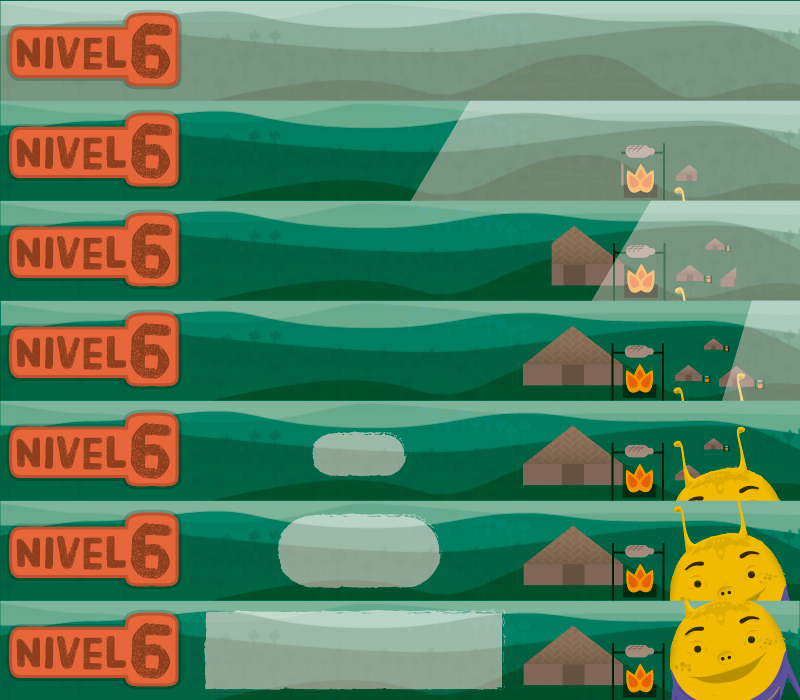
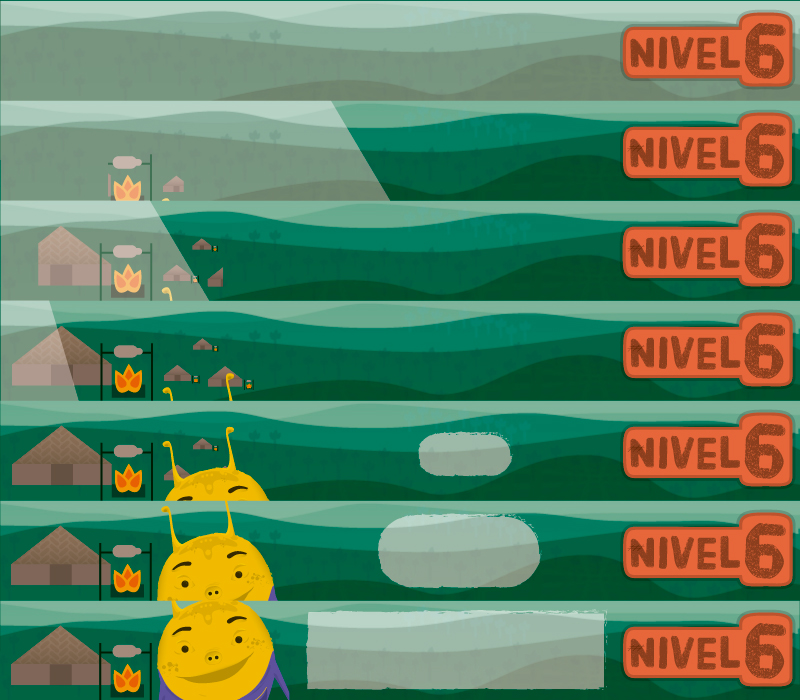
Cambios

diff --git a/dist/js/game.js b/dist/js/game.js
@@ -3885,7 +3885,7 @@ var Situacion =
       this.crearBoton(0,200,'nivel3',205,250,'Prueba tu agilidad y lógica por\nmedio del uso de operadores\nlógicos. Empecemos!');
       this.crearBoton(0,300,'nivel4',200,350,'');
       this.crearBoton(0,400,'nivel5',305,450,'');
-      this.crearBoton(0,500,'nivel6',205,550,'Estas listo para probar todos\ntus conocimientos? Es hora de\nempezar a codificar. Vamos!');
+      this.crearBoton(0,500,'nivel6',308,550,'Estas listo para probar todos\ntus conocimientos? Es hora de\nempezar a codificar. Vamos!');
     },
 
     update: function() {
@@ -3950,7 +3950,7 @@ Preload.prototype = {
     this.load.spritesheet('nivel1', 'assets/images/Menu/nivel1.jpg',800,100);
     this.load.spritesheet('nivel2', 'assets/images/Menu/nivel2.jpg',800,100);
     this.load.spritesheet('nivel3', 'assets/images/Menu/nivel3.jpg',800,100);
-    this.load.spritesheet('nivel4', 'assets/images/Menu/nivel1.jpg',800,100);
+    this.load.spritesheet('nivel4', 'assets/images/Menu/nivel4.jpg',800,100);
     this.load.spritesheet('nivel5', 'assets/images/Menu/nivel2.jpg',800,100);
     this.load.spritesheet('nivel6', 'assets/images/Menu/nivel6.jpg',800,100);
     this.load.spritesheet('ayudaGeneral', 'assets/images/Menu/ayuda.jpg',800,600);

diff --git a/game/states/preload.js b/game/states/preload.js
@@ -18,7 +18,7 @@ Preload.prototype = {
     this.load.spritesheet('nivel1', 'assets/images/Menu/nivel1.jpg',800,100);
     this.load.spritesheet('nivel2', 'assets/images/Menu/nivel2.jpg',800,100);
     this.load.spritesheet('nivel3', 'assets/images/Menu/nivel3.jpg',800,100);
-    this.load.spritesheet('nivel4', 'assets/images/Menu/nivel1.jpg',800,100);
+    this.load.spritesheet('nivel4', 'assets/images/Menu/nivel4.jpg',800,100);
     this.load.spritesheet('nivel5', 'assets/images/Menu/nivel2.jpg',800,100);
     this.load.spritesheet('nivel6', 'assets/images/Menu/nivel6.jpg',800,100);
     this.load.spritesheet('ayudaGeneral', 'assets/images/Menu/ayuda.jpg',800,600);

diff --git a/game/states/play.js b/game/states/play.js
@@ -9,7 +9,7 @@
       this.crearBoton(0,200,'nivel3',205,250,'Prueba tu agilidad y lógica por\nmedio del uso de operadores\nlógicos. Empecemos!');
       this.crearBoton(0,300,'nivel4',200,350,'');
       this.crearBoton(0,400,'nivel5',305,450,'');
-      this.crearBoton(0,500,'nivel6',205,550,'Estas listo para probar todos\ntus conocimientos? Es hora de\nempezar a codificar. Vamos!');
+      this.crearBoton(0,500,'nivel6',308,550,'Estas listo para probar todos\ntus conocimientos? Es hora de\nempezar a codificar. Vamos!');
     },
 
     update: function() {
